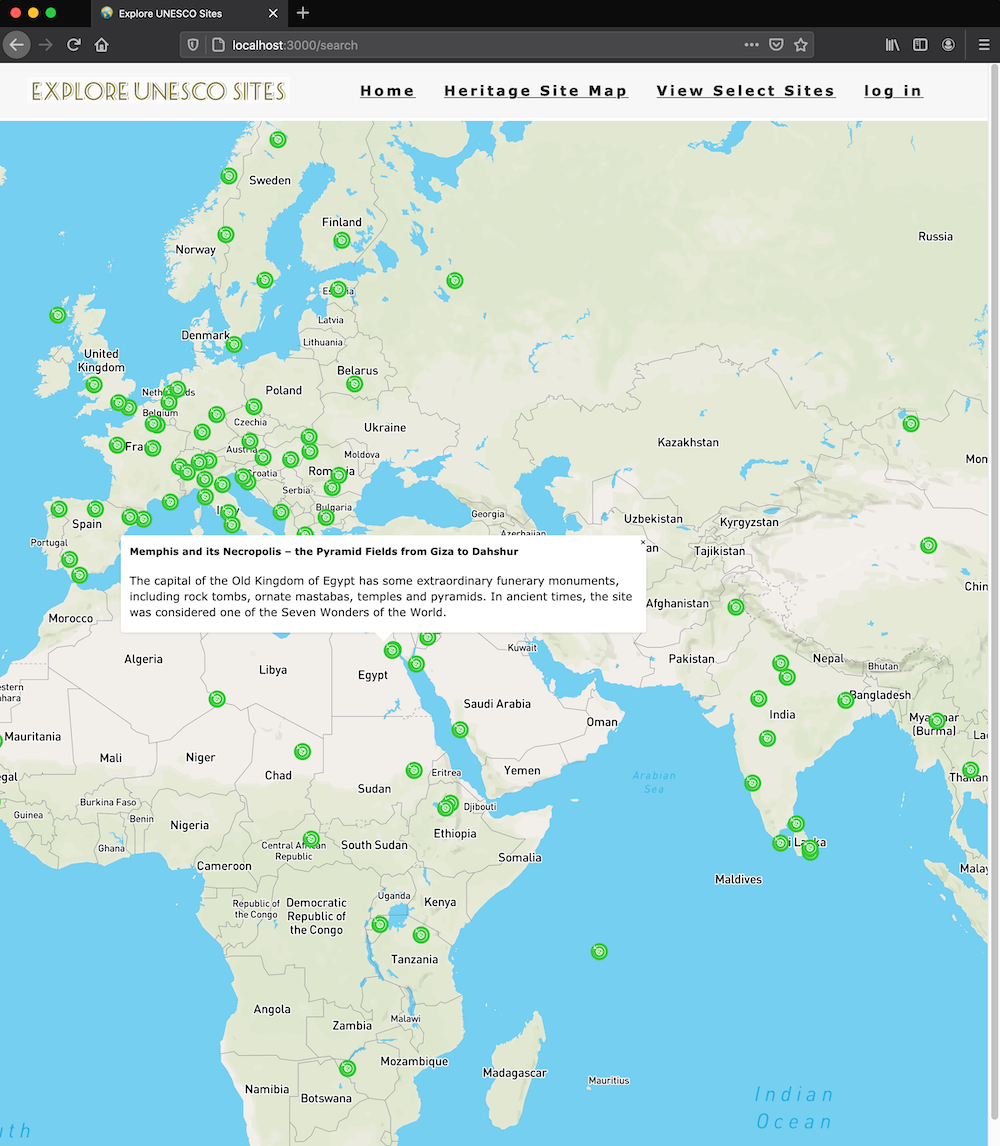
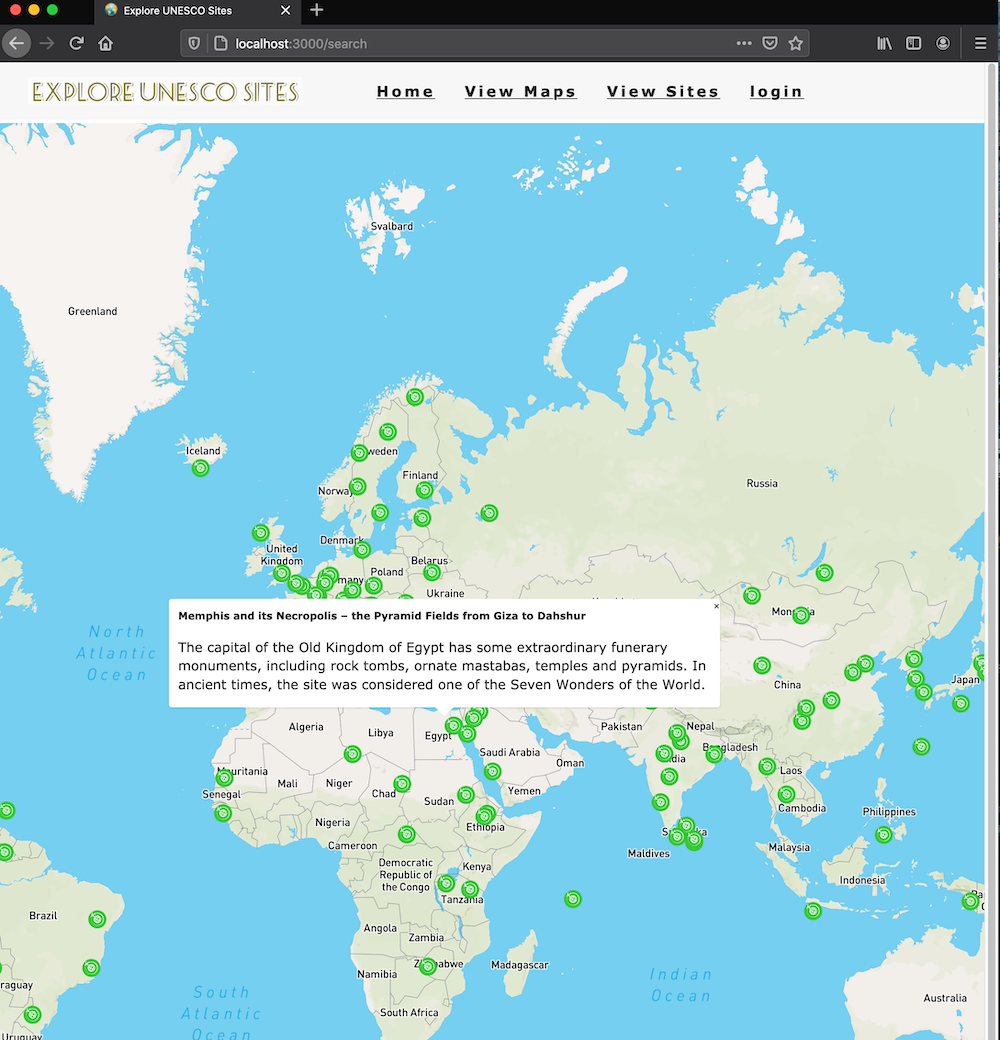
Update home page text and README

diff --git a/src/components/Features.jsx b/src/components/Features.jsx
@@ -8,17 +8,17 @@ export default class Features extends Component {
             {
                 icon: <FaMapMarkedAlt />,
                 title: "Visualize Site Locations",
-                info: "View world heritage site locations on Google Maps."
+                info: "View world heritage sites and descriptions on interactive maps."
             },
             {
                 icon: <FaSignInAlt />,
                 title: "Login and Logout",
-                info: "User can edit and bookmark site of interest."
+                info: "User can login and logout to access more functionalities."
             },
             {
                 icon: <FaDigitalTachograph />,
                 title: "Heritage Sits Statistics",
-                info: "Looking into detailed information on various heritage sites."
+                info: "User can edit comments and details for select heritage sites"
             }
         ]
     }
@@ -31,7 +31,7 @@ export default class Features extends Component {
                         return (
                             <article key={index} className="features">
                                 <span>{item.icon}</span>
-                                <h6>{item.title}</h6>
+                                <h5>{item.title}</h5>
                                 <p>{item.info}</p>
                             </article>
                         );

diff --git a/src/App.css b/src/App.css
@@ -54,7 +54,7 @@ h6 {
   margin-bottom: 1.5em;
 }
 p {
-  font-size: 0.8rem;
+  font-size: 0.9rem;
 }
 
 .btn-primary {
@@ -139,7 +139,7 @@ p {
 }
 
 .show-nav {
-  height: 100px;
+  height: 200px;
 }
 @media screen and (min-width: 768px) {
   .nav-btn {
@@ -234,7 +234,7 @@ p {
   margin-bottom: 2rem;
 }
 .section-title h4 {
-  font-size: 2rem;
+  font-size: 1.5rem;
   letter-spacing: var(--mainSpacing);
   text-transform: capitalize;
   margin-bottom: 1rem;
@@ -249,7 +249,7 @@ p {
 
 /* features */
 .features {
-  padding: 1.5rem 0;
+  padding: 1rem 0;
 }
 .features {
   background: var(--darkGrey);
@@ -260,21 +260,16 @@ p {
   margin: 0 auto;
   display: grid;
   grid-template-columns: repeat(auto-fit, minmax(255px, 1fr));
-  grid-row-gap: 2rem;
+  grid-row-gap: rem;
   grid-column-gap: 50px;
 }
 .features span {
   display: inline-block;
   color: var(--primaryColor);
-  font-size: 2.5rem;
-  margin-bottom: 1.5rem;
+  font-size: 2rem;
 }
 .features h6 {
   letter-spacing: var(--mainSpacing);
-}
-.features p {
-  width: 80%;
-  margin: 0 auto;
 }
 @media screen and (min-width: 992px) {
   .features-center {

diff --git a/src/components/Navbar.jsx b/src/components/Navbar.jsx
@@ -26,8 +26,8 @@ export default class Navbar extends Component {
           <ul className={this.state.isOpen ? "nav-links show-nav" : "nav-links"}>
             <li><Link to="/">Home</Link></li>
             <li><Link to="/search">View Maps</Link></li>
-            <li><Link to="/sites">Site Details</Link></li>
-            <li><Link to="/auth">log in</Link></li>
+            <li><Link to="/sites">View Sites</Link></li>
+            <li><Link to="/auth">login</Link></li>
           </ul>
         </div>
       </nav>

diff --git a/README.md b/README.md
@@ -4,7 +4,7 @@ Team members: Yiwen Fang, Peng Hao, Dong Liu
 UI repo link: https://github.ccs.neu.edu/NEU-CS5610-SU20/GroupProject_ThreeMusketeers_UI
 
 API repo link: https://github.ccs.neu.edu/NEU-CS5610-SU20/GroupProject_ThreeMusketeers_API
-
+---
 UI Folder Structure - Iteration 1
 ```
 ├── UNESCO_UI
@@ -17,7 +17,9 @@ UI Folder Structure - Iteration 1
 │	│	├── index.js
 │	│	├── components
 │	│	│   ├── Banner.jsx
+│	│	│   ├── Card.jsx
 │	│	│   ├── Features.jsx
+│	│	│   ├── Form-hook.js
 │	│	│   ├── Hero.jsx
 │	│	│   ├── Map3.jsx
 │	│	│   ├── MapContainer.jsx
@@ -30,9 +32,9 @@ UI Folder Structure - Iteration 1
 │	│	│   ├── Sites.js
 │	│	│   ├── Auth.js
 ```
-
-Iterations
-Iteration 1
+---
+## Progress
+## Iteration 1
 ![page 1](https://github.ccs.neu.edu/NEU-CS5610-SU20/GroupProject_ThreeMusketeers_UI/blob/master/src/images/screenshot-page1.png)
 
 ![page 2](https://github.ccs.neu.edu/NEU-CS5610-SU20/GroupProject_ThreeMusketeers_UI/blob/master/src/images/screenshot-page2.png)
@@ -43,15 +45,22 @@ Iteration 1
 
 - Reference: css stylesheet adapted from : https://github.com/john-smilga/setup-files-react-beach-resort
 
-Iteration 2
+---
+
+## Iteration 2
 ![page 2](https://github.ccs.neu.edu/NEU-CS5610-SU20/GroupProject_ThreeMusketeers_UI/blob/master/src/images/screenshot-page2-itr2.png)
 
 ![page 3]()
 
 - In Mpa3.jsx component, include RectMapGL component for map rendering. Mapbox API is used to render a map view a various heritage sites.
-- Import heritage site dataset from UNESCO to the map components, available json data is mapped into mapbox throught Marker and Popup component from react-map-gl.
+- Import heritage site dataset from UNESCO to the map components, available json data is mapped into Mapbox through Marker and Popup component from react-map-gl.
 
 ---
+## Iteration 3 TO DO
+
+- Connect user authentication with backend.
+- Connect user comment and edit function with backend. 
+
 This project was bootstrapped with [Create React App](https://github.com/facebook/create-react-app).
 
 ## Available Scripts
